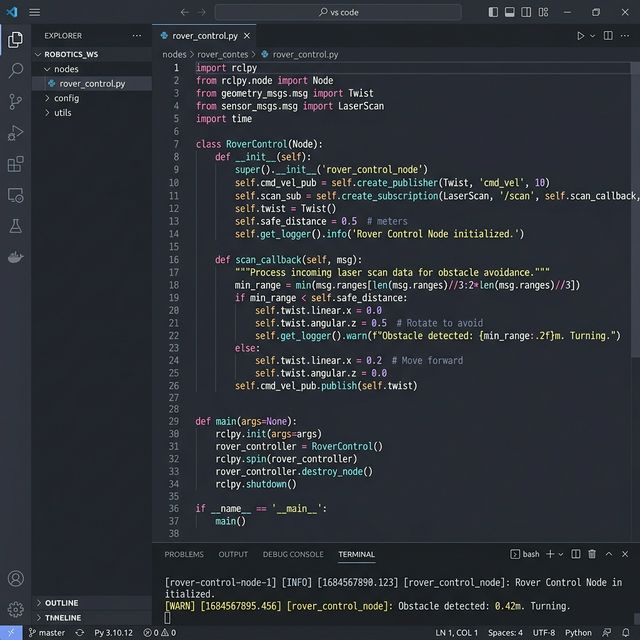
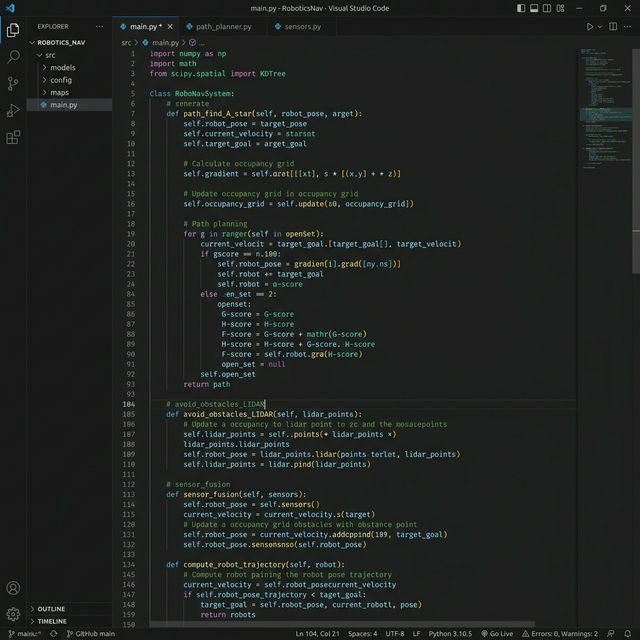
Deploy V2.3: Restored autonomous Chatbot bindings, generated borderless VSCode editor texture, and built animated Experience Modals

diff --git a/index.css b/index.css
@@ -1398,3 +1398,260 @@ section {
     color: #FF923E;
     margin-bottom: 15px;
 }
+
+/* Chatbot Widget */
+#chatbot-trigger {
+    position: fixed;
+    bottom: 30px;
+    right: 30px;
+    width: 60px;
+    height: 60px;
+    background: #FF923E;
+    border-radius: 50%;
+    display: flex;
+    justify-content: center;
+    align-items: center;
+    box-shadow: 0 10px 30px rgba(255, 146, 62, 0.4);
+    cursor: pointer;
+    z-index: 99999;
+    transition: transform 0.3s;
+}
+#chatbot-trigger:hover {
+    transform: scale(1.1) rotate(10deg);
+}
+.chatbot-pulse {
+    animation: pulse 2s infinite;
+}
+@keyframes pulse {
+    0% { box-shadow: 0 0 0 0 rgba(255, 146, 62, 0.7); }
+    70% { box-shadow: 0 0 0 20px rgba(255, 146, 62, 0); }
+    100% { box-shadow: 0 0 0 0 rgba(255, 146, 62, 0); }
+}
+
+#chatbot-modal {
+    position: fixed;
+    bottom: 110px;
+    right: 30px;
+    width: 350px;
+    height: 500px;
+    background: rgba(9, 20, 52, 0.95);
+    backdrop-filter: blur(10px);
+    border-radius: 20px;
+    z-index: 100000;
+    box-shadow: 0 20px 50px rgba(0, 0, 0, 0.5);
+    display: flex;
+    flex-direction: column;
+    overflow: hidden;
+    transition: opacity 0.3s, transform 0.3s;
+}
+#chatbot-modal.hide {
+    display: none !important;
+}
+#chatbot-header {
+    background: #091434;
+    color: white;
+    padding: 15px 20px;
+    display: flex;
+    justify-content: space-between;
+    align-items: center;
+    border-bottom: 1px solid rgba(255,255,255,0.1);
+}
+#chatbot-header h3 {
+    margin: 0;
+    font-size: 16px;
+    font-family: Poppins, sans-serif;
+}
+#chatbot-close {
+    cursor: pointer;
+    font-size: 18px;
+    color: #CBD5E1;
+}
+
+#chatbot-messages {
+    flex: 1;
+    padding: 20px;
+    overflow-y: auto;
+    display: flex;
+    flex-direction: column;
+    gap: 15px;
+}
+.chat-message {
+    max-width: 80%;
+    padding: 12px 16px;
+    border-radius: 15px;
+    font-family: Poppins, sans-serif;
+    font-size: 14px;
+    line-height: 1.5;
+}
+.bot-message {
+    background: rgba(255,255,255,0.1);
+    color: #F8FAFC;
+    align-self: flex-start;
+    border-bottom-left-radius: 5px;
+}
+.user-message {
+    background: #FF923E;
+    color: #091434;
+    align-self: flex-end;
+    border-bottom-right-radius: 5px;
+    font-weight: 500;
+}
+
+#chatbot-input-container {
+    padding: 15px;
+    background: rgba(0,0,0,0.2);
+    display: flex;
+    align-items: center;
+}
+#chatbot-input {
+    flex: 1;
+    background: rgba(255,255,255,0.05);
+    border: 1px solid rgba(255,255,255,0.1);
+    border-radius: 25px;
+    padding: 12px 20px;
+    color: white;
+    outline: none;
+    font-family: Poppins, sans-serif;
+    transition: background 0.3s;
+}
+#chatbot-input:focus {
+    background: rgba(255,255,255,0.1);
+    box-shadow: 0 0 0 2px #34bfff40;
+}
+#chatbot-send {
+    background: #FF923E;
+    color: white;
+    border: none;
+    border-radius: 50%;
+    width: 40px;
+    height: 40px;
+    margin-left: 10px;
+    cursor: pointer;
+    display: flex;
+    justify-content: center;
+    align-items: center;
+    font-size: 16px;
+    transition: transform 0.2s;
+}
+#chatbot-send:hover {
+    transform: scale(1.1);
+}
+
+/* --- Experience Tech Timeline Modal --- */
+#experience-modal {
+    position: fixed;
+    top: 50%;
+    left: 50%;
+    transform: translate(-50%, -50%) scale(1);
+    width: 85%;
+    max-width: 700px;
+    max-height: 85vh;
+    background: rgba(9, 20, 52, 0.95);
+    border: 1px solid rgba(0, 212, 255, 0.3);
+    backdrop-filter: blur(20px);
+    border-radius: 10px;
+    z-index: 100000;
+    box-shadow: 0 0 50px rgba(0, 212, 255, 0.2);
+    padding: 30px;
+    color: white;
+    font-family: 'Electrolize', sans-serif;
+    overflow-y: auto;
+    transition: opacity 0.3s, transform 0.3s;
+}
+#experience-modal.hide {
+    opacity: 0;
+    pointer-events: none;
+    transform: translate(-50%, -50%) scale(0.9);
+}
+#experience-modal-close {
+    position: absolute;
+    top: 20px;
+    right: 20px;
+    cursor: pointer;
+    background: rgba(0, 212, 255, 0.1);
+    padding: 10px;
+    border-radius: 50%;
+    color: #00D4FF;
+    transition: 0.2s;
+}
+#experience-modal-close:hover {
+    background: #00D4FF;
+    color: #091434;
+}
+.tech-header {
+    font-size: 24px;
+    color: #00D4FF;
+    border-bottom: 1px dashed rgba(0, 212, 255, 0.3);
+    padding-bottom: 15px;
+    margin-bottom: 25px;
+    text-transform: uppercase;
+    letter-spacing: 2px;
+}
+.timeline-container {
+    display: flex;
+    flex-direction: column;
+    gap: 30px;
+    position: relative;
+    padding-left: 20px;
+    border-left: 2px solid rgba(0, 212, 255, 0.2);
+}
+.timeline-node {
+    position: relative;
+}
+.timeline-dot {
+    position: absolute;
+    left: -27px;
+    top: 5px;
+    width: 12px;
+    height: 12px;
+    border-radius: 50%;
+    background: #00D4FF;
+    box-shadow: 0 0 10px #00D4FF;
+}
+.pulse-cyan {
+    animation: pulseCyan 1.5s infinite;
+}
+@keyframes pulseCyan {
+    0% { box-shadow: 0 0 0 0 rgba(0, 212, 255, 0.7); }
+    70% { box-shadow: 0 0 0 10px rgba(0, 212, 255, 0); }
+    100% { box-shadow: 0 0 0 0 rgba(0, 212, 255, 0); }
+}
+.timeline-content {
+    background: rgba(4, 10, 25, 0.5);
+    border-left: 3px solid #00D4FF;
+    padding: 15px 20px;
+    border-radius: 5px;
+    transition: transform 0.2s, background 0.2s;
+}
+.timeline-content:hover {
+    transform: translateX(5px);
+    background: rgba(30, 41, 59, 0.8);
+}
+.node-title {
+    color: #F8FAFC;
+    margin: 0 0 10px 0;
+    font-size: 18px;
+    font-family: Poppins, sans-serif;
+}
+.node-desc {
+    color: #CBD5E1;
+    font-size: 14px;
+    line-height: 1.6;
+    margin: 0 0 15px 0;
+    font-family: Poppins, sans-serif;
+}
+.tech-tags {
+    display: flex;
+    flex-wrap: wrap;
+    gap: 10px;
+}
+.tech-tag {
+    background: rgba(0, 212, 255, 0.1);
+    color: #00D4FF;
+    padding: 4px 10px;
+    font-size: 12px;
+    border-radius: 12px;
+    text-transform: uppercase;
+    font-weight: bold;
+    border: 1px solid rgba(0, 212, 255, 0.2);
+}

diff --git a/index.html b/index.html
@@ -181,6 +181,7 @@
                 </div>
                 <div class="column menu-items-column-container" style="padding-left: 20px;">
                     <a class="extra-menu-item" href="./resume/Manideep_Resume.pdf" target="_blank">Resume</a>
+                    <span class="extra-menu-item" id="menu-exp">Experience</span>
                     <span class="extra-menu-item" id="menu-edu">Education</span>
                     <span class="extra-menu-item" id="menu-pub">Publications</span>
                     <span class="extra-menu-item" id="menu-cert">Certificates</span>
@@ -649,6 +650,53 @@
         <i id="info-modal-close" class="fas fa-times"></i>
         <h2 id="info-modal-title">Title</h2>
         <div id="info-modal-body">Content goes here...</div>
+    </div>
+
+    <!-- Experience Tech Timeline Modal -->
+    <div id="experience-modal" class="hide">
+        <i id="experience-modal-close" class="fas fa-times"></i>
+        <div class="tech-header">
+            <i class="fas fa-project-diagram"></i> CAREER TIMELINE
+        </div>
+        <div class="timeline-container">
+            
+            <div class="timeline-node">
+                <div class="timeline-dot pulse-cyan"></div>
+                <div class="timeline-content">
+                    <h3 class="node-title">Research Assistant — WPI RoboCare Lab</h3>
+                    <p class="node-desc">Built a Pepper + Stretch multi-robot assistive system (speech, ROS2 navigation, RGB-D perception, grasping, task-state feedback), raising user task awareness from 15.8% to 84.6%.</p>
+                    <div class="tech-tags"><span class="tech-tag">ros2</span><span class="tech-tag">python</span><span class="tech-tag">perception</span></div>
+                </div>
+            </div>
+
+            <div class="timeline-node">
+                <div class="timeline-dot pulse-cyan"></div>
+                <div class="timeline-content">
+                    <h3 class="node-title">Robotics & Automation Engineer — Virya Autonomous</h3>
+                    <p class="node-desc">Led integration, testing, and root-cause debugging across 5+ AMR deployments using LiDAR, IMU, encoders, and telemetry; ran IoT firmware update workflows and optimized C/C++ sensor code for field reliability.</p>
+                    <div class="tech-tags"><span class="tech-tag">cpp</span><span class="tech-tag">python</span><span class="tech-tag">ros2</span></div>
+                </div>
+            </div>
+
+            <div class="timeline-node">
+                <div class="timeline-dot pulse-cyan"></div>
+                <div class="timeline-content">
+                    <h3 class="node-title">Engineer, Smart Solutions R&D — Maini Materials</h3>
+                    <p class="node-desc">Engineered AMR solutions for warehouse automation, translating customer workflows, traffic, and safety needs into deployment-ready plans across 20+ industrial site assessments.</p>
+                    <div class="tech-tags"><span class="tech-tag">ros2</span><span class="tech-tag">controls</span></div>
+                </div>
+            </div>
+
+            <div class="timeline-node">
+                <div class="timeline-dot pulse-cyan"></div>
+                <div class="timeline-content">
+                    <h3 class="node-title">Automation Engineer Trainee — Tranqvolt & Festo</h3>
+                    <p class="node-desc">Built PLC automation systems, control panels, PCB layouts, and electro-pneumatic solutions across 5+ industrial production-line sites.</p>
+                    <div class="tech-tags"><span class="tech-tag">controls</span></div>
+                </div>
+            </div>
+
+        </div>
     </div>
 </body>
 </html>

diff --git a/chat.js b/chat.js
@@ -101,4 +101,21 @@ document.addEventListener("DOMContentLoaded", () => {
         });
     }
 
+    // --- Experience Modal ---
+    const expModal = document.getElementById("experience-modal");
+    const expModalClose = document.getElementById("experience-modal-close");
+    const menuExp = document.getElementById("menu-exp");
+
+    if (menuExp) {
+        menuExp.addEventListener("click", () => {
+            expModal.classList.remove("hide");
+        });
+    }
+
+    if (expModalClose) {
+        expModalClose.addEventListener("click", () => {
+            expModal.classList.add("hide");
+        });
+    }
+
 });
